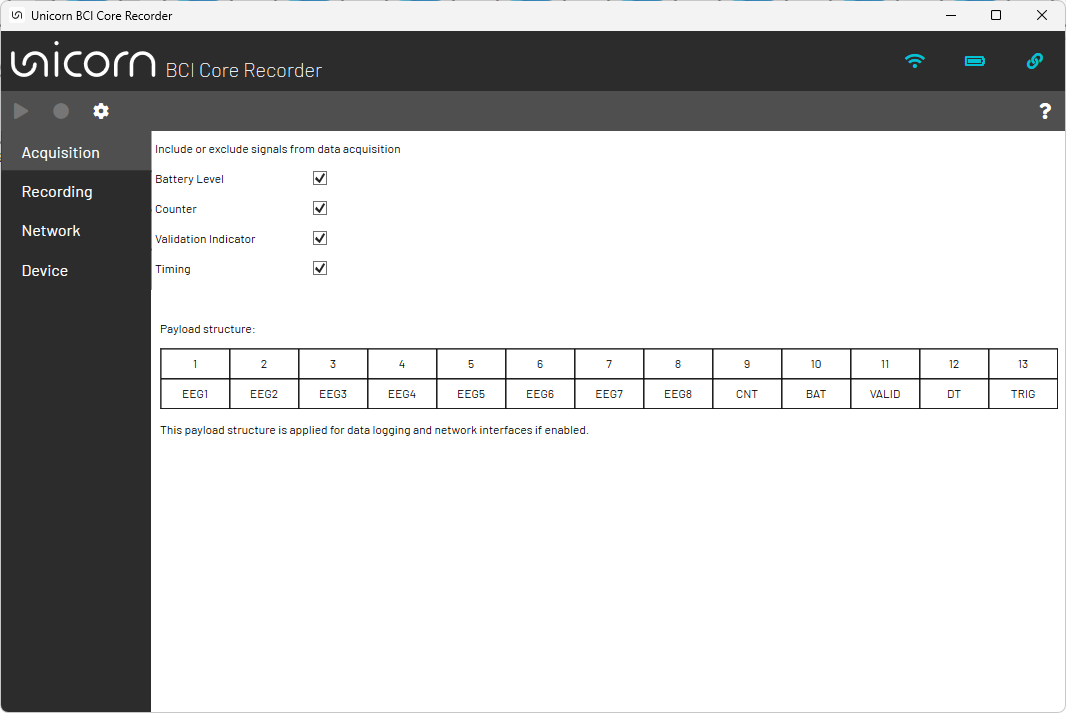
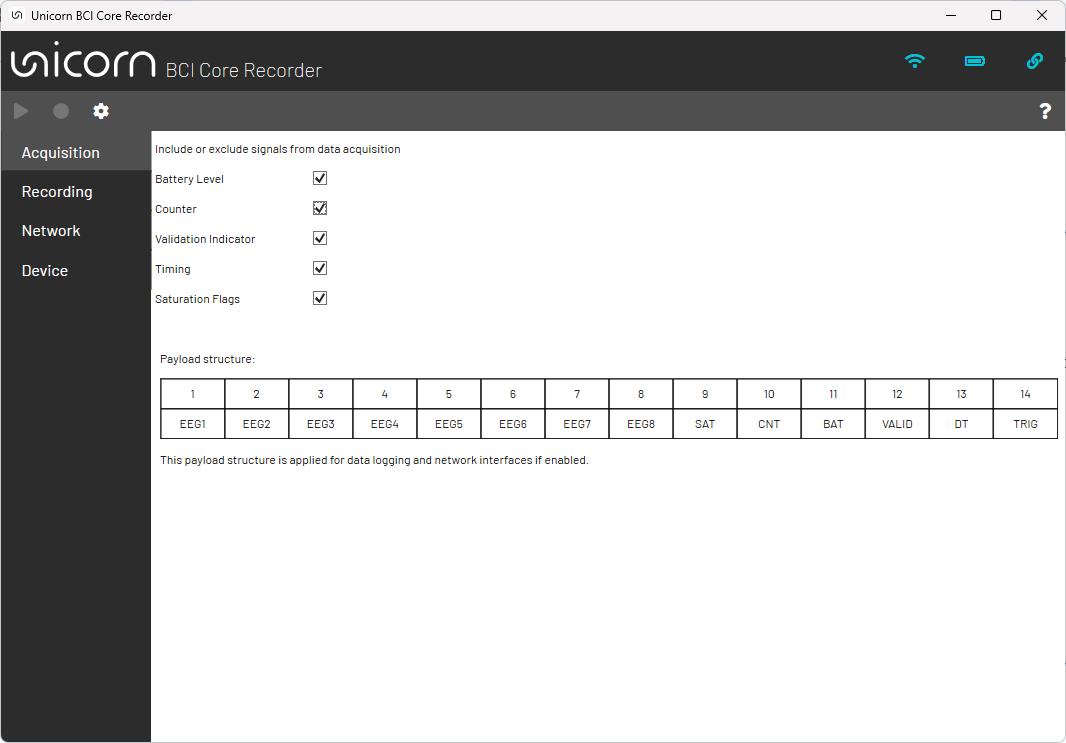
updated screenshots

diff --git a/README.md b/README.md
@@ -83,15 +83,16 @@ Ch. 5 - EEG 5 - EEG channel 5 in microvolts<br/>
 Ch. 6 - EEG 6 - EEG channel 6 in microvolts<br/>
 Ch. 7 - EEG 7 - EEG channel 7 in microvolts<br/>
 Ch. 8 - EEG 8 - EEG channel 8 in microvolts<br/>
-Ch. 9 - CNT - Counter<br/>
-Ch. 10 - BAT - Battery Level in percent<br/>
-Ch. 11 - VALID - Validation Indicator<br/>
-Ch. 12 - DT - Delta time / Timespan between two received samples in milliseconds<br/>
-Ch. 13 - STATUS - Status / Trigger Value<br/>
+Ch. 9 - SAT - Saturation flags<br/>
+Ch. 10 - CNT - Counter<br/>
+Ch. 11 - BAT - Battery Level in percent<br/>
+Ch. 12 - VALID - Validation Indicator<br/>
+Ch. 13 - DT - Delta time / Timespan between two received samples in milliseconds<br/>
+Ch. 14 - STATUS - Status / Trigger Value<br/>
 
 ### Recording settings
 
-Data can be stored in BDF or CSV file format. It is possible to select the recording format in the 'Recording' settings. 'Folder path' and 'File prefix' can be modified as well. 
+Data can be stored in BDF or CSV file format. It is possible to select the recording format in the 'Recording' settings. 'Folder path' and 'File prefix' can be modified as well. It is possible to record raw data and processed data. Raw data and processed data can be enabled and disabled in the 'Recording' settings.
 
 The default 'Folder path' is set to:
 
